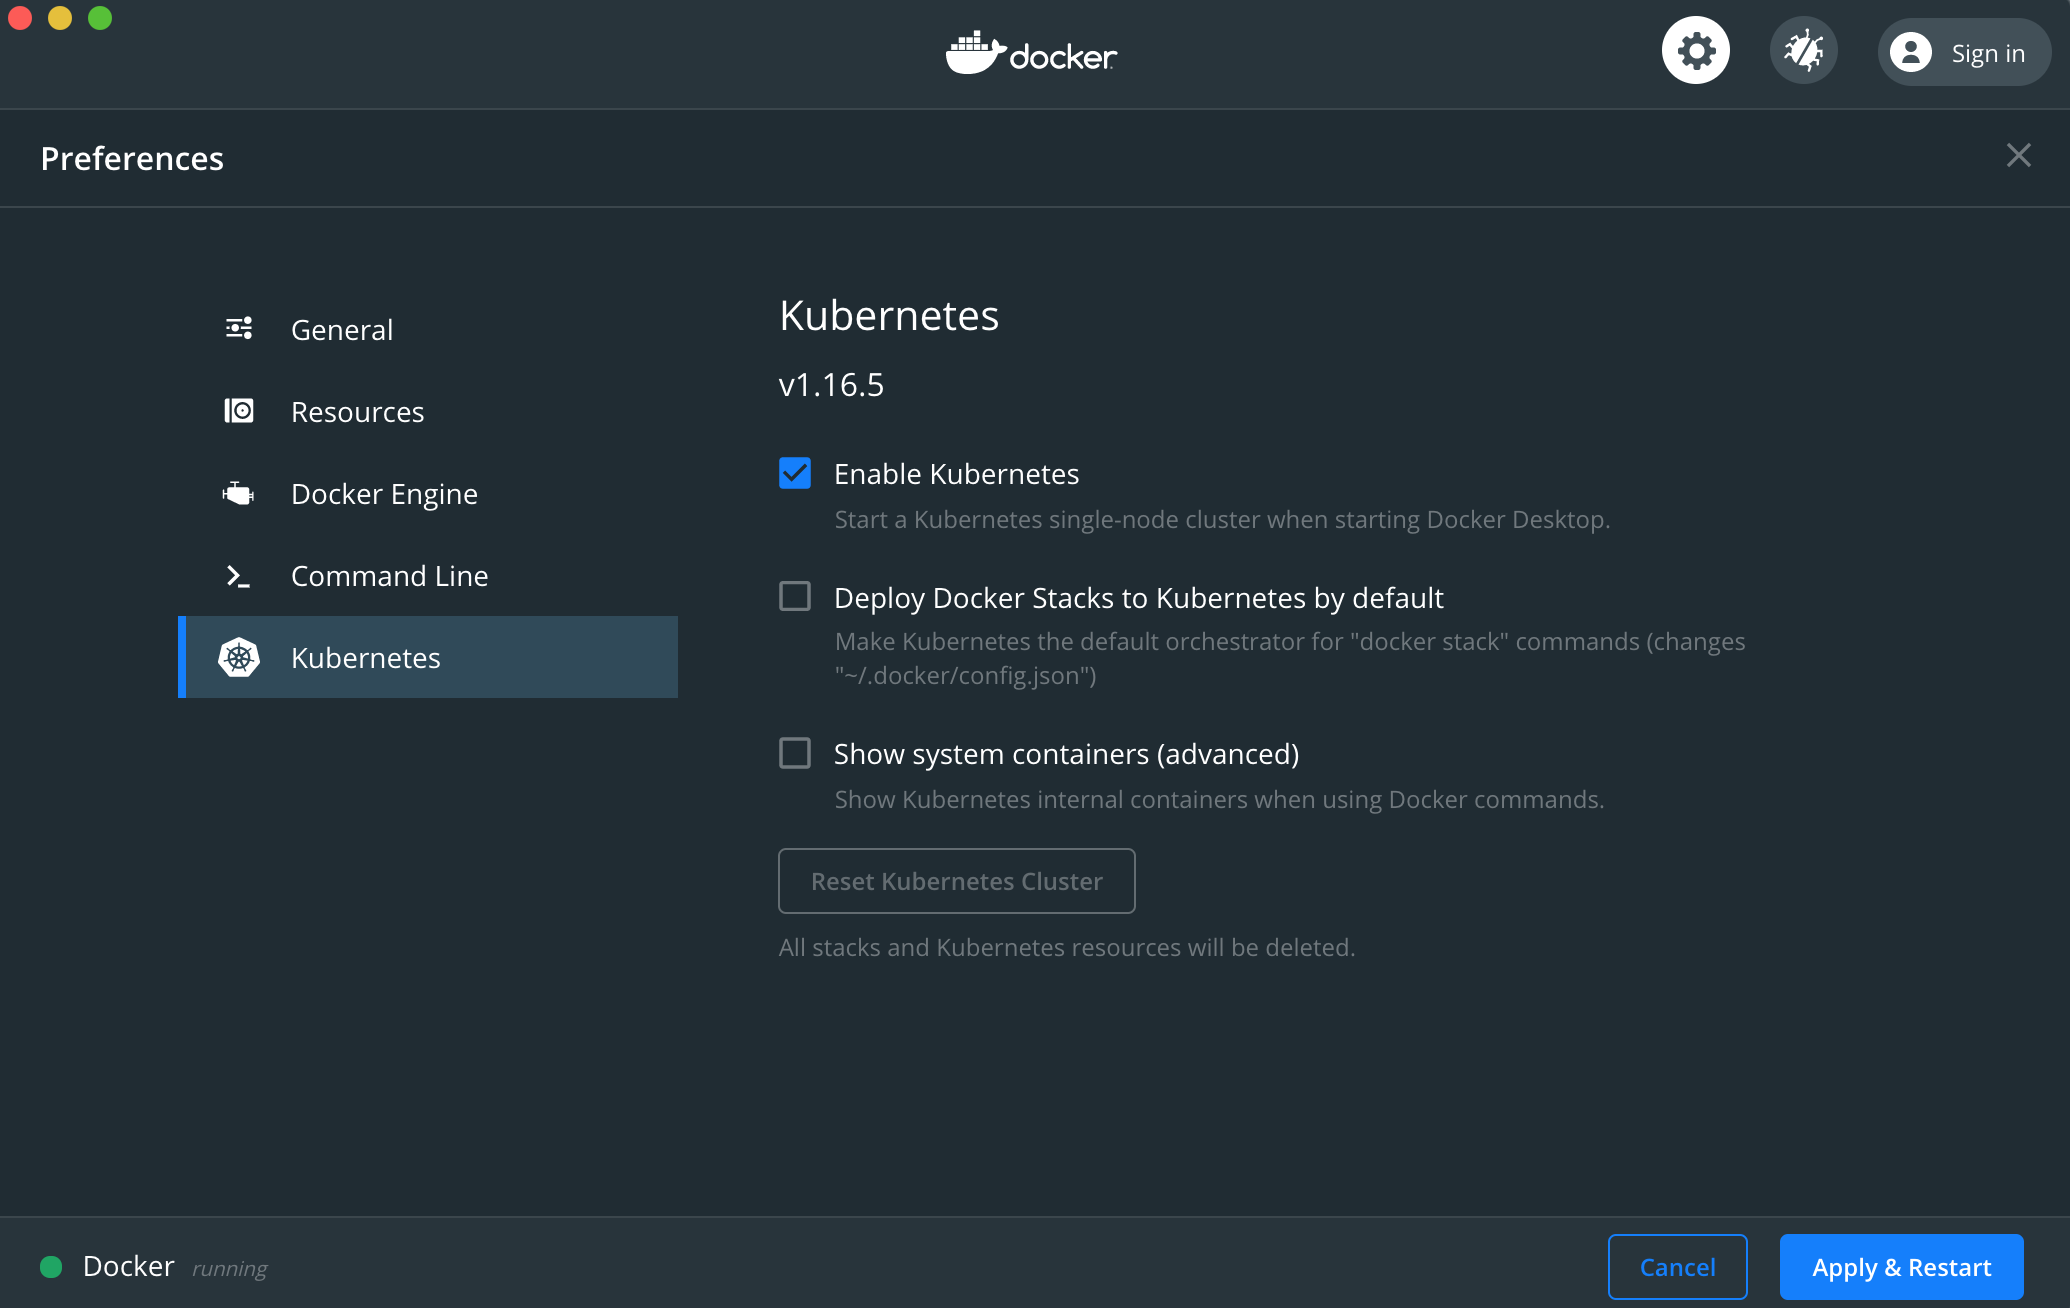
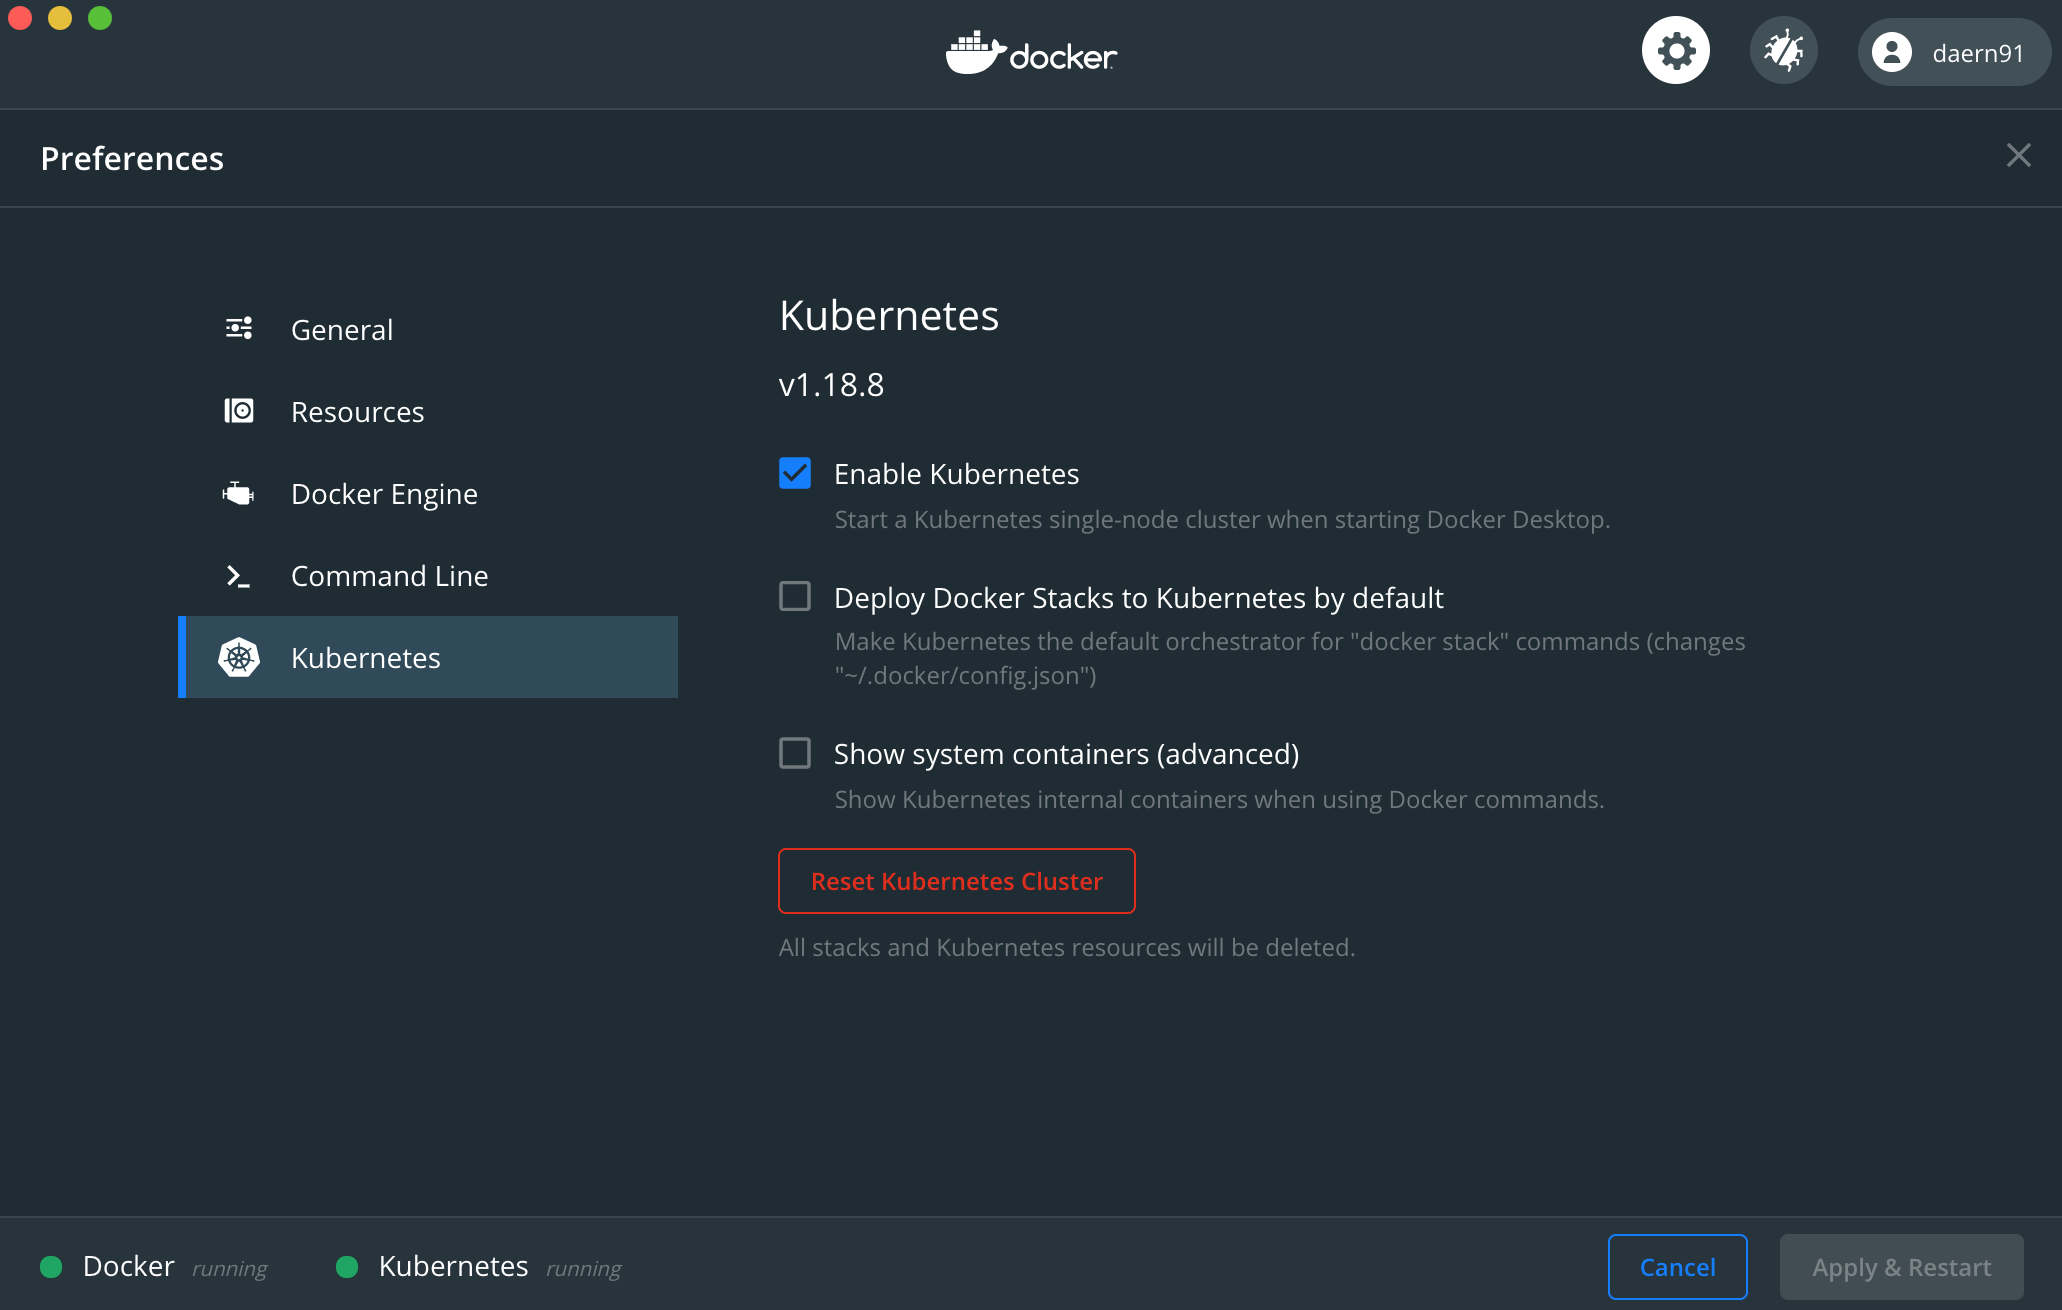
add info on versions

diff --git a/SETUP.md b/SETUP.md
@@ -1,8 +1,8 @@
 ## Setting up Kubernetes locally with Docker on macOS
 
-1. [Install Docker](https://docs.docker.com/docker-for-mac/install/)
+1. [Install Docker](https://docs.docker.com/docker-for-mac/install/) (we're using version 19.03.x)
 2. [Install kubectl](https://kubernetes.io/docs/tasks/tools/install-kubectl/#install-kubectl-on-macos) (`$ brew install kubectl`)
-3. Enable Kubernetes on Docker
+3. Enable Kubernetes on Docker (we're using version 1.18.x)
    ![Enable k8s on Docker](./enable_kubernetes_on_docker.png)
 4. Set kubectl context to your local cluster
    1. `$ kubectl config get-contexts` to see all available contexts
